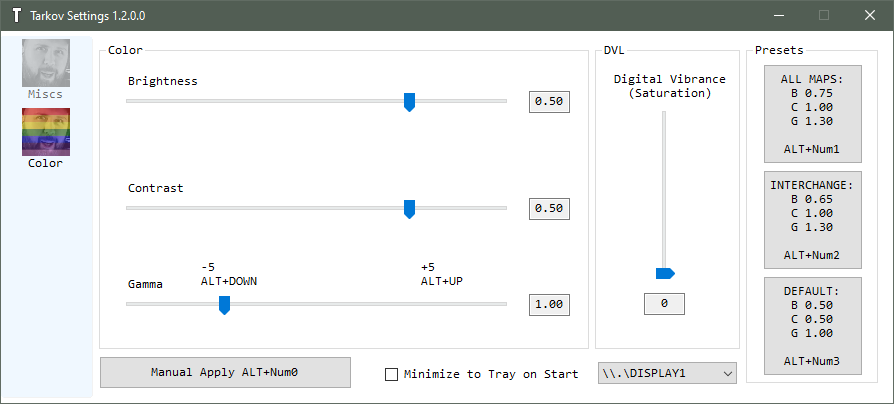
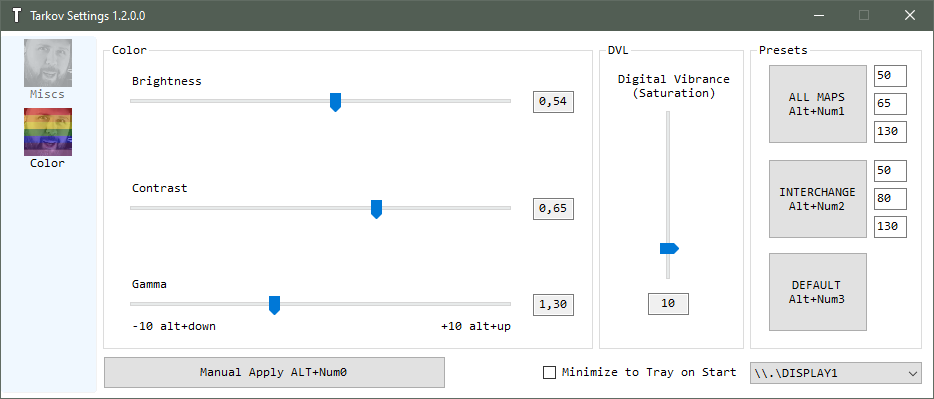
updates

diff --git a/README.md b/README.md
@@ -1,12 +1,12 @@
 # tarkov-settings (fullscreen hotkey +presets branch)
-![screenshot2](./1.png)
-
+![screenshot](./1.png)
 I am by no means a C# programmer and my code is terrible. Do not use unless absolutely necessary. Better wait for original tarkov-settings updates.
-All the changes can be helpful for fullscreen users since tarkov-setting does not work if EFT is in fullscreen mode
-+ added 3 presets that works best for me
-+ added hotkeys for the presets 
-+ added hotkeys for +5 -5 gamma offset
-+ added manual apply for fullscreen users
+All the changes can be helpful for fullscreen users since tarkov-setting does not work in fullscreen mode
++ added 3 customizable presets 
++ added hotkeys for the presets (alt+Num1, alt+Num2, alt+Num3)
++ added hotkeys for +10 and -10 gamma offset (alt+UP, alt+DOWN)
++ added manual apply with a hotkey (alt+Num0)
+- fixed brigtness and contrast bars min values (did nothing below 0)
 
 
 ## ORIGINAL TEXT BELOW
